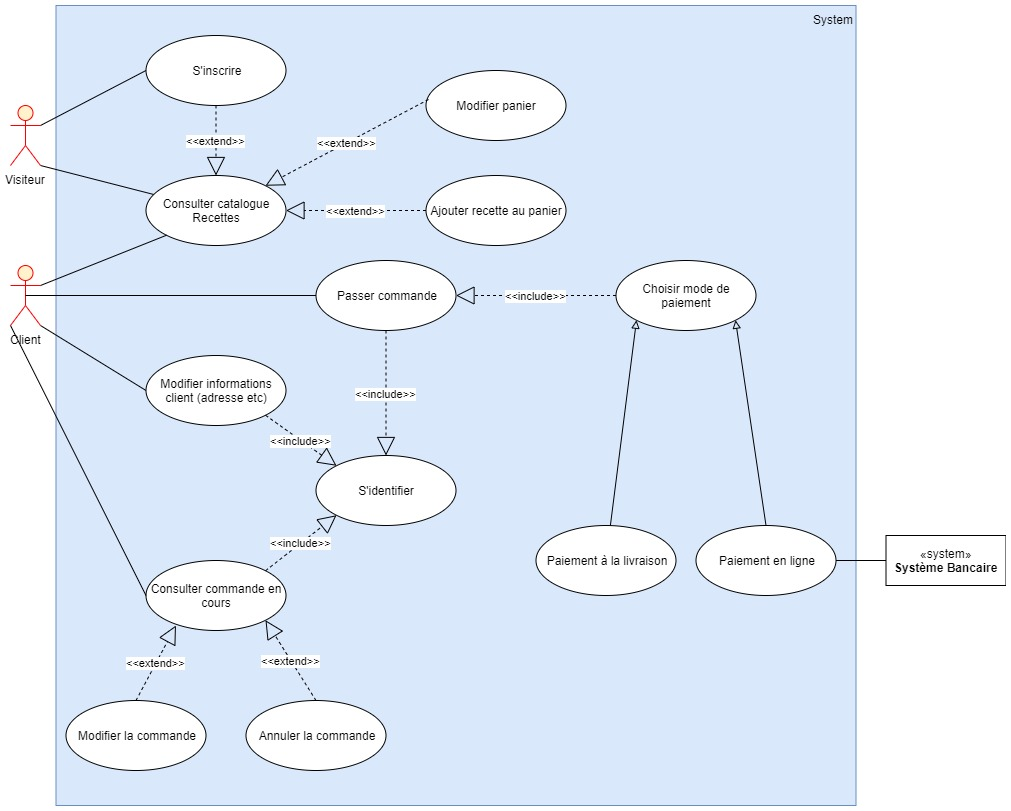
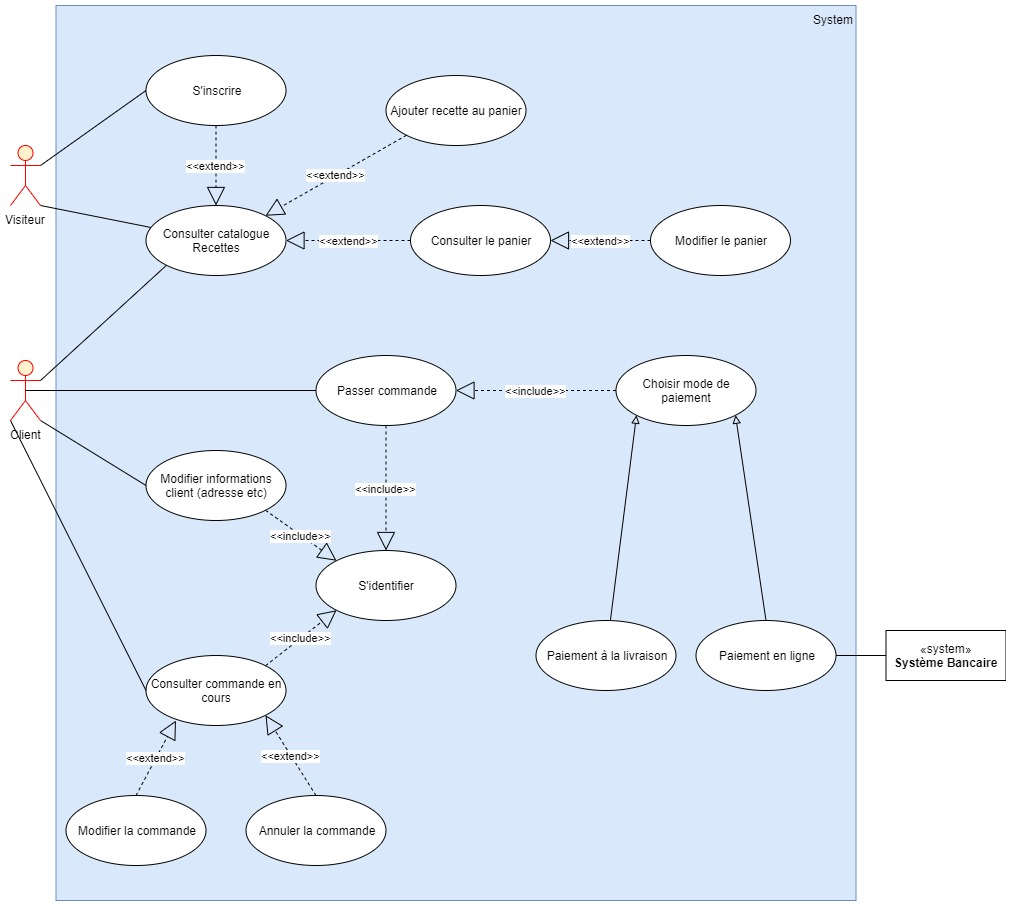
Ajout UC consultation/modification panier + maj diagramme

diff --git a/Diagrammes/Package Client/[21] Modifier Panier.md b/Diagrammes/Package Client/[21] Modifier Panier.md
@@ -1,0 +1,33 @@
+# Cas  n°21
+
+**Nom:** Modifier Panier (package « Client »)<br>
+**Acteurs(s):** Client<br>
+**Description succincte:** La modification du panier doit être possible pour l'utilisateur<br>
+**Auteur:** A Gomes<br>
+**Date(s):** 26/12/2019 (première rédaction)<br>
+**Pré-conditions:** L’utilisateur doit être authentifié en tant que client( Cas d’utilisation « S’identifier »)<br>
+**Démarrage:** L’utilisateur a demandé la modification du panier<br>
+
+### **DESCRIPTION**
+
+**Le scénario nominal**<br>
+1.	Le client choisit une recette du panier à modifier
+2.  Le système demande à l'utilisateur quel type de modification il veut effectuer (Modifier quantité, modifier ingrédients)
+3.  L'utilisateur effectue sa modification
+4.  L'utilisateur valide sa modification
+5.	Le système met à jour le panier.
+6.	Le système redirige l'utilisateur vers le panier
+
+
+**Les scénarios alternatifs**<br>
+1.  En (3): L’utilisateur annule la modification
+2.  En (3): L'utilisateur ne valide pas et annule la modification
+
+**Scénario d'exception**<br>
+- Aucun
+
+**Fin:** 
+- Scenario nominal : à l'étape 6 sur décision de l’utilisateur
+- Scénario alternatif: à l'étape 3 sur décision de l'utilisateur
+
+**Post-conditions:** Le panier modifié est bien mise à jour et accessible pour le client (Cas d'utilisation « Consulter le panier »)

diff --git a/Diagrammes/Package Client/[22]Consulter Panier.md b/Diagrammes/Package Client/[22]Consulter Panier.md
@@ -1,0 +1,25 @@
+
+# Cas  n°22
+
+**Nom:** Consulter Panier (package « Client »)<br>
+**Acteurs(s):** Client<br>
+**Description succincte:** La consultation du panier doit être possible pour l'utilisateur <br>
+**Auteur:** A Gomes<br>
+**Date(s):** 26/12/2019 (première rédaction)<br>
+**Pré-conditions:** L’utilisateur doit être authentifié en tant que client( Cas d’utilisation « S’identifier »)<br>
+**Démarrage:** L’utilisateur s'est connecté et a demandé la consultation du panier<br>
+
+### **DESCRIPTION**
+
+**Le scénario nominal**<br>
+1.	Le système affiche une page contenant la liste des recettes du panier
+
+**Les scénarios alternatifs**<br>
+- Aucun
+
+**Scénario d'exception**<br>
+1. En (1): L'utilisateur n'a ajouté aucune recette au panier, le système affiche un message « Panier vide »
+
+**Fin:** Scenario nominal : à l'étape 1, après affichage du panier par le système<br>
+
+**Post-conditions:** Aucun

diff --git a/Avancement.md b/Avancement.md
@@ -26,6 +26,8 @@
     - [x] Modifier une commande
     - [x] Annuler une commande
     - [x] Effectuer le paiement d'une commande
+    - [] Modifier Panier
+    - [] Consuulter panier
 
 # A venir
 
